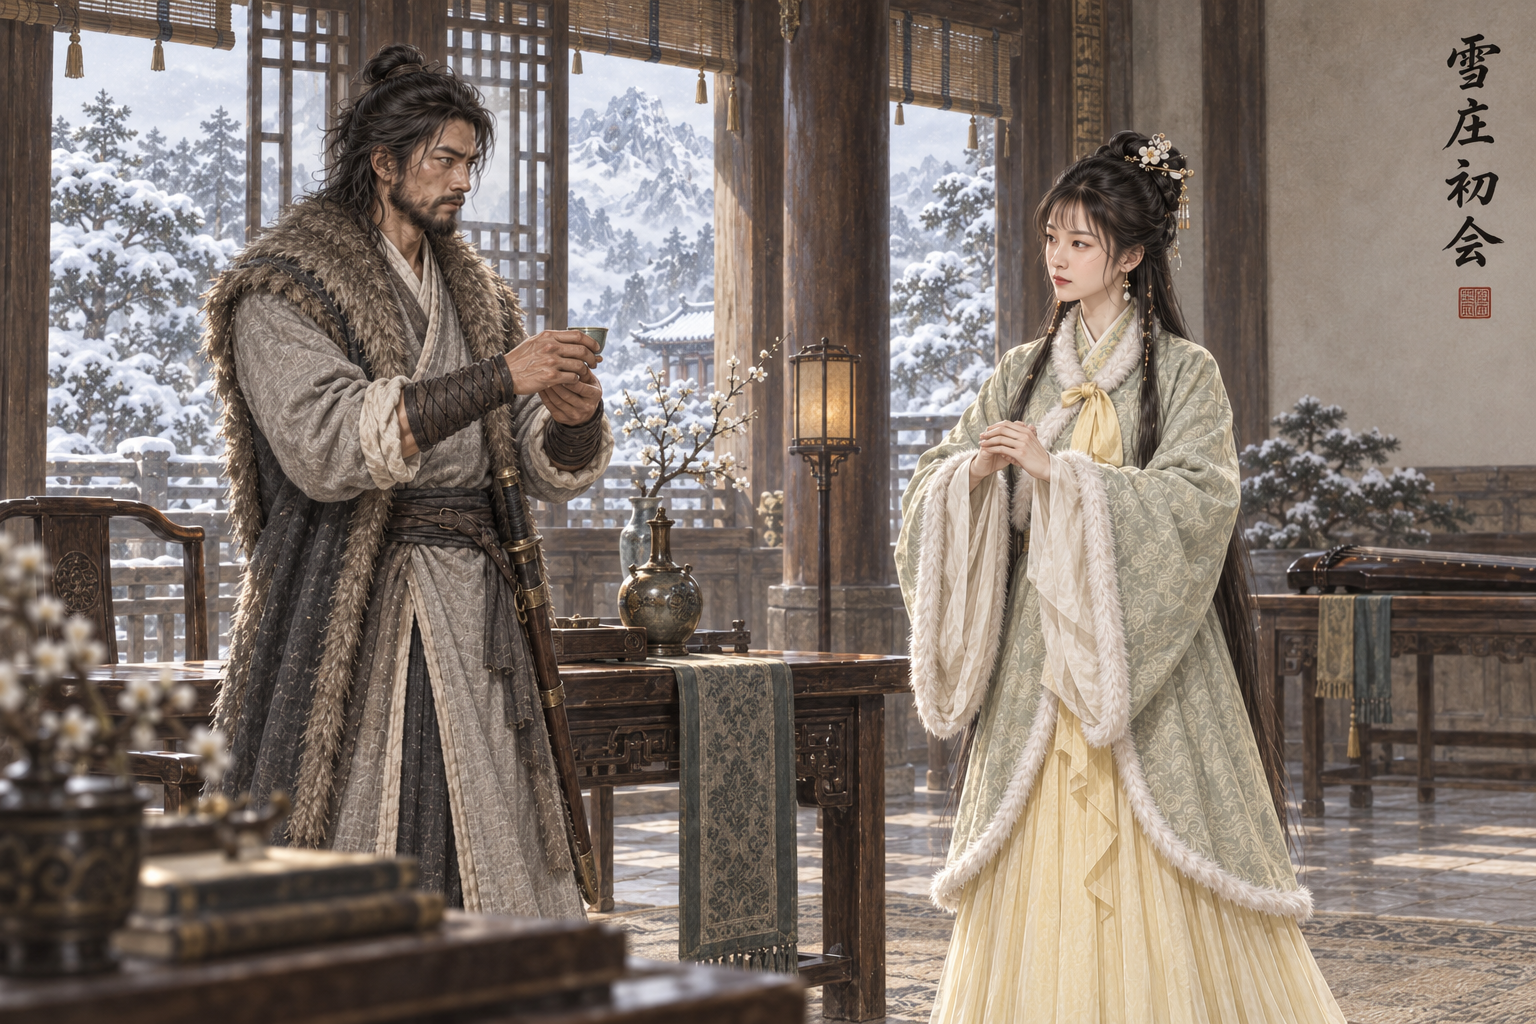
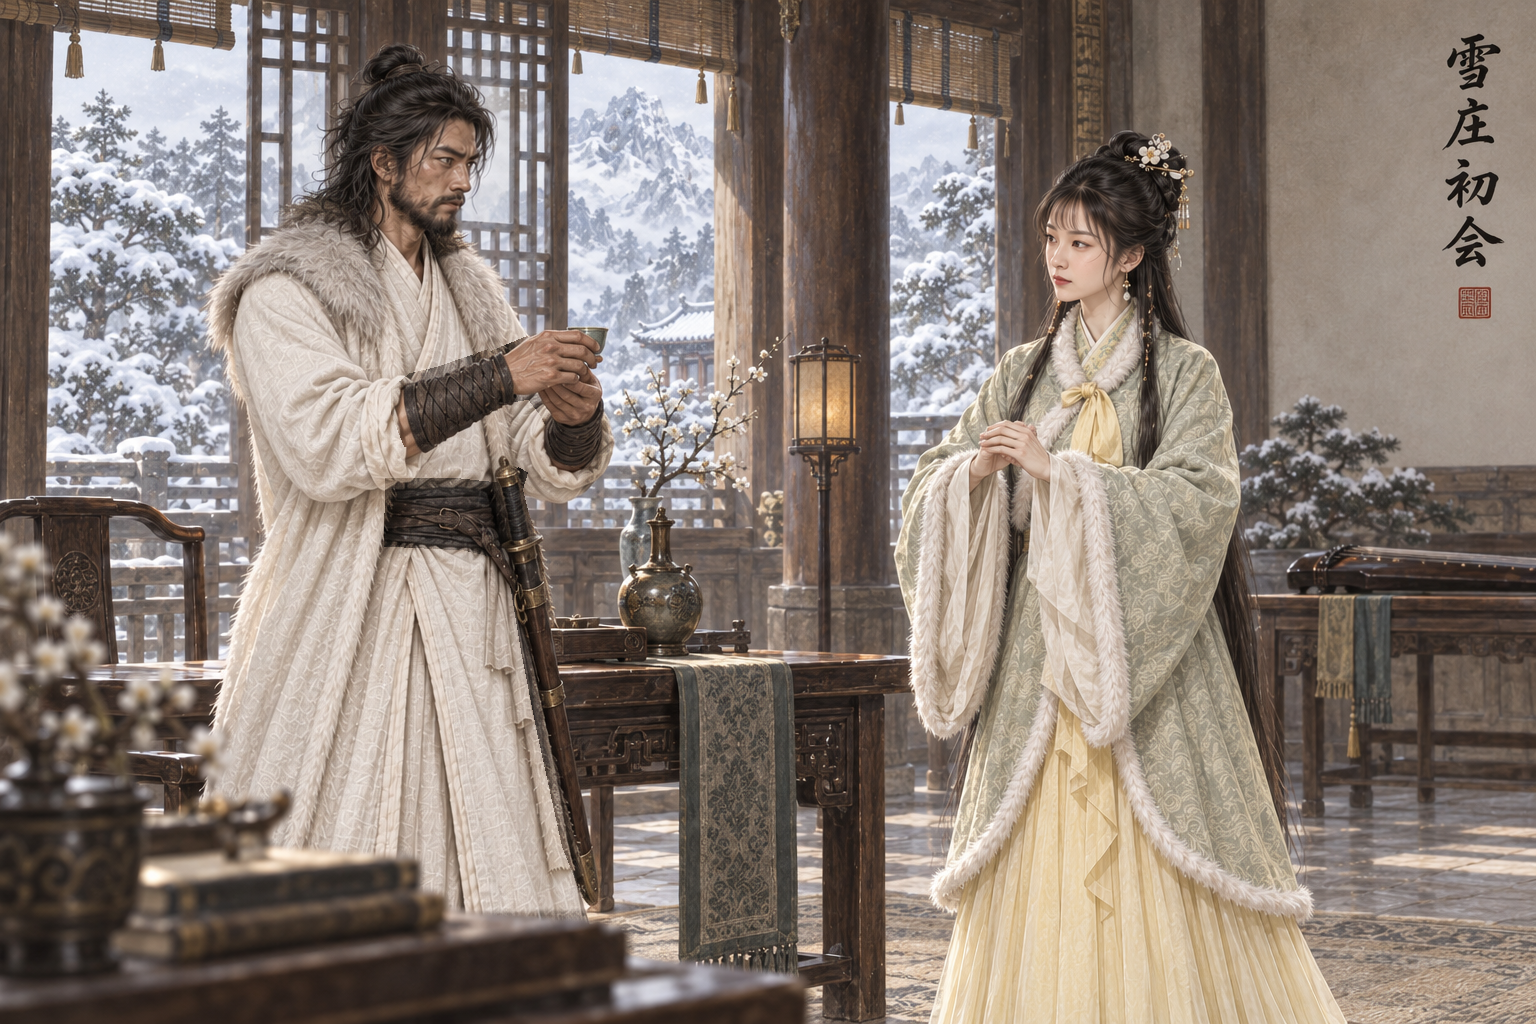
assets: AR-82 原著核对返修 宝树、袁紫衣、胡斐
修正原著明确的服饰、器物或剧情状态；编辑范围外像素保持，保留既定面容；同步原著摘句及当前返修要求。

Executed-By: Codex gpt-6.1-sol（AR-82）

Changed region(s): [[0.125, 0.2188, 0.375, 0.9062]]

diff --git a/assets/default/prompts/scenes/ch14-xueshan/cg_ch14_snow_first_meet.md b/assets/default/prompts/scenes/ch14-xueshan/cg_ch14_snow_first_meet.md
@@ -38,6 +38,9 @@ title_verified: 逐字放大核验：雪 / 庄 / 初 / 会；原生正确
 ## Gemini 提示词
 
 ```text
+【AR-82 当前原著约束，覆盖后文冲突旧描述】本图雪庄初会属于第六章登峰后厅中相迎，胡斐延续白衣阶段。只将画面左侧成熟虬髯胡斐主体灰褐长袍和袖子改成旧化白色/乳白色布衣，原大片棕灰外层毛皮去掉或缩为小块浅灰白肩缘毛边，白衣必须主体清楚，不要灰褐皮层遮白衣。保留腰带、刀鞘和靴子。胡斐原头脸、头发胡须、持杯双手、姿势、人物位置及轮廓不变；画面右侧苗若兰全身、所有背景与桌上器物、题字雪庄初会和红印逐像素完全不变。
+【AR-82 原文摘句】《雪山飞狐》第六章：“却是一个白衣男子”；“那白衣男子双足钩住绳索”。；来源：https://github.com/OliverCWY/JY/blob/master/Markdown/%E4%B8%89%E8%81%94%E7%89%88/%E9%9B%AA%E5%B1%B1%E9%A3%9E%E7%8B%90/%E7%AC%AC06%E7%AB%A0.md；《雪庄初会》现提示词标为第6回厅中相迎，延续登峰救人后白衣阶段。
+
 生成一张3:2横幅写实手绘古风剧情插画，1536×1024。所有人物明确为成年；单幅完整场景，不拼贴不分镜。
 第1张参考：胡斐本人基础图，只锁定该人的面容与成人体态；未另述衣装时沿用本人base，明确场面要求优先。
 第2张参考：胡斐·飞狐登峰阶段图，锁定新身份与年龄，衣物道具以【场面】为准，不复制姿势背景。
@@ -56,3 +59,15 @@ title_verified: 逐字放大核验：雪 / 庄 / 初 / 会；原生正确
 
 - 参考分工见实际提示词；配色、姿势、取景及成年化均为（原创扩展）。
 - 本轮结果已逐图目检并入库为 candidate；实际作业与参考哈希见 manifest。
+
+
+## 原著依据
+
+- AR-82 同步依据：《雪山飞狐》第六章：“却是一个白衣男子”；“那白衣男子双足钩住绳索”。；来源：https://github.com/OliverCWY/JY/blob/master/Markdown/%E4%B8%89%E8%81%94%E7%89%88/%E9%9B%AA%E5%B1%B1%E9%A3%9E%E7%8B%90/%E7%AC%AC06%E7%AB%A0.md；《雪庄初会》现提示词标为第6回厅中相迎，延续登峰救人后白衣阶段。；执行：本图雪庄初会属于第六章登峰后厅中相迎，胡斐延续白衣阶段。只将画面左侧成熟虬髯胡斐主体灰褐长袍和袖子改成旧化白色/乳白色布衣，原大片棕灰外层毛皮去掉或缩为小块浅灰白肩缘毛边，白衣必须主体清楚，不要灰褐皮层遮白衣。保留腰带、刀鞘和靴子。胡斐原头脸、头发胡须、持杯双手、姿势、人物位置及轮廓不变；画面右侧苗若兰全身、所有背景与桌上器物、题字雪庄初会和红印逐像素完全不变。
+
+
+## AR-82 当前返修约束
+
+本图雪庄初会属于第六章登峰后厅中相迎，胡斐延续白衣阶段。只将画面左侧成熟虬髯胡斐主体灰褐长袍和袖子改成旧化白色/乳白色布衣，原大片棕灰外层毛皮去掉或缩为小块浅灰白肩缘毛边，白衣必须主体清楚，不要灰褐皮层遮白衣。保留腰带、刀鞘和靴子。胡斐原头脸、头发胡须、持杯双手、姿势、人物位置及轮廓不变；画面右侧苗若兰全身、所有背景与桌上器物、题字雪庄初会和红印逐像素完全不变。
+
+以本节及原著依据为当前要求，历史提示词与本节冲突时按本节执行；保留作者选定脸、原画质感与对应剧情阶段。

diff --git a/assets/default/prompts/scenes/ch14-xueshan/cg_ch14_manor_poison_reveal.md b/assets/default/prompts/scenes/ch14-xueshan/cg_ch14_manor_poison_reveal.md
@@ -39,6 +39,9 @@ title_verified: 逐字放大核验：雪 / 庄 / 辨 / 伪；原生正确
 ## Gemini 提示词
 
 ```text
+【AR-82 当前原著约束，覆盖后文冲突旧描述】只将画面右边宝树手下的黑铁念珠小环改为数十颗约48颗小黑铁珠的长串，珠子明显缩小，长串从原握珠位置垂出两三道自然弧，黑黝黝铁质。握珠手位置不动。宝树衣物、脸、双手原皮肤与手指保持；苗若兰、苗人凤、桌子烛火、其余背景、题字雪庄辨伪及印全部逐像素不变。
+【AR-82 原文摘句】《雪山飞狐》第十章：“数十颗铁珠忽然上下左右，分打胡苗二人的要害”
+
 生成一张3:2横幅写实手绘古风剧情插画，1536×1024。所有人物明确为成年；单幅完整场景，不拼贴不分镜。
 第1张参考：苗若兰本人基础图，只锁定该人的面容与成人体态；未另述衣装时沿用本人base，明确场面要求优先。
 第2张参考：苗若兰·山庄止争阶段图，锁定新身份与年龄，衣物道具以【场面】为准，不复制姿势背景。
@@ -57,3 +60,15 @@ title_verified: 逐字放大核验：雪 / 庄 / 辨 / 伪；原生正确
 
 - 参考分工见实际提示词；配色、姿势、取景及成年化均为（原创扩展）。
 - 本轮结果已逐图目检并入库为 candidate；实际作业与参考哈希见 manifest。
+
+
+## 原著依据
+
+- AR-82 同步依据：《雪山飞狐》第十章：“数十颗铁珠忽然上下左右，分打胡苗二人的要害”；执行：只将画面右边宝树手下的黑铁念珠小环改为数十颗约48颗小黑铁珠的长串，珠子明显缩小，长串从原握珠位置垂出两三道自然弧，黑黝黝铁质。握珠手位置不动。宝树衣物、脸、双手原皮肤与手指保持；苗若兰、苗人凤、桌子烛火、其余背景、题字雪庄辨伪及印全部逐像素不变。
+
+
+## AR-82 当前返修约束
+
+只将画面右边宝树手下的黑铁念珠小环改为数十颗约48颗小黑铁珠的长串，珠子明显缩小，长串从原握珠位置垂出两三道自然弧，黑黝黝铁质。握珠手位置不动。宝树衣物、脸、双手原皮肤与手指保持；苗若兰、苗人凤、桌子烛火、其余背景、题字雪庄辨伪及印全部逐像素不变。
+
+以本节及原著依据为当前要求，历史提示词与本节冲突时按本节执行；保留作者选定脸、原画质感与对应剧情阶段。

diff --git a/assets/default/prompts/scenes/ch13-feihu/cg_ch13_leaders_assembly.md b/assets/default/prompts/scenes/ch13-feihu/cg_ch13_leaders_assembly.md
@@ -40,6 +40,9 @@ title_verified: 逐字放大核验：群 / 雄 / 破 / 局；原生正确
 ## Gemini 提示词
 
 ```text
+【AR-82 当前原著约束，覆盖后文冲突旧描述】只在袁紫衣圆性的光头前部脑门上加几枚小而可辨的浅褐圆戒印，是已愈合的剃度烧香瘢痕，不画流血。原头部大小位置、五官肤色和表情保持；缁衣与云帚不变。所有其他人物，包括胡斐、程灵素、殿内众人，背景旗帜、题字群雄破局、红印全部逐像素不变。
+【AR-82 原文摘句】《飞狐外传》第十九章“相见欢”：“脑门处并有戒印”；“缁衣芒鞋，手执云帚”
+
 生成一张3:2横幅写实手绘古风剧情插画，1536×1024。所有人物明确为成年；单幅完整场景，不拼贴不分镜。
 第1张参考：胡斐·佛山问罪阶段图，锁定新身份与年龄，衣物道具以【场面】为准，不复制姿势背景。
 第2张参考：程灵素本人基础图，只锁定该人的面容与成人体态；未另述衣装时沿用本人base，明确场面要求优先。
@@ -58,3 +61,15 @@ title_verified: 逐字放大核验：群 / 雄 / 破 / 局；原生正确
 
 - 参考分工见实际提示词；配色、姿势、取景及成年化均为（原创扩展）。
 - 本轮结果已逐图目检并入库为 candidate；实际作业与参考哈希见 manifest。
+
+
+## 原著依据
+
+- AR-82 同步依据：《飞狐外传》第十九章“相见欢”：“脑门处并有戒印”；“缁衣芒鞋，手执云帚”；执行：只在袁紫衣圆性的光头前部脑门上加几枚小而可辨的浅褐圆戒印，是已愈合的剃度烧香瘢痕，不画流血。原头部大小位置、五官肤色和表情保持；缁衣与云帚不变。所有其他人物，包括胡斐、程灵素、殿内众人，背景旗帜、题字群雄破局、红印全部逐像素不变。
+
+
+## AR-82 当前返修约束
+
+只在袁紫衣圆性的光头前部脑门上加几枚小而可辨的浅褐圆戒印，是已愈合的剃度烧香瘢痕，不画流血。原头部大小位置、五官肤色和表情保持；缁衣与云帚不变。所有其他人物，包括胡斐、程灵素、殿内众人，背景旗帜、题字群雄破局、红印全部逐像素不变。
+
+以本节及原著依据为当前要求，历史提示词与本节冲突时按本节执行；保留作者选定脸、原画质感与对应剧情阶段。
